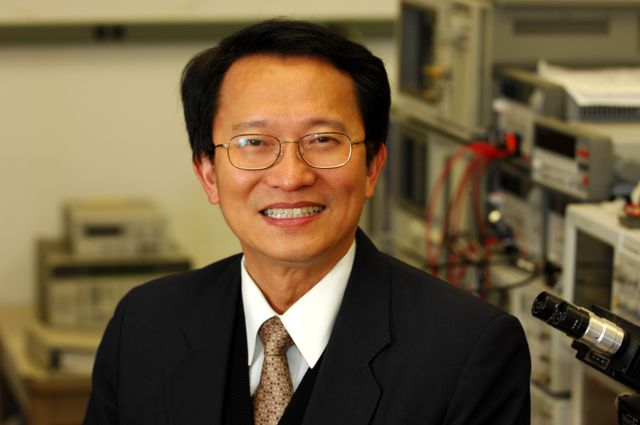
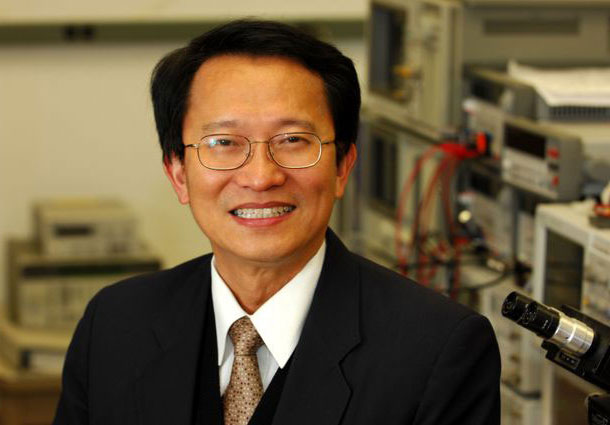
addin students pics for Prof. Chang page

diff --git a/src/assets/articlesHighlights.js b/src/assets/articlesHighlights.js
@@ -226,8 +226,8 @@ export const articlesHighlights = [
     articleCallout2: '',
     articleImage1: '/img/frankchang.jpg',
     articleImage2: '/img/frankchang2.jpg',
-    articleImage3: '',
-    articleImage4: '',
+    articleImage3: '/img/frankchang5.jpg',
+    articleImage4: '/img/frankchang4.jpg',
     articleImage5: '',
     articleImage6: '',
     articleImageAltText1: 'Former Chair of ECE Department',
@@ -242,8 +242,8 @@ export const articlesHighlights = [
     articleImageAltTextProf: 'M-C Frank Chang',
     articleImageCred: 'Photo courtesy of IEEE',
     articleAuthor: '',
-    articleCaption1: 'Witold Kinsner, IEEE Educational Activities Vice President; Mau-Chung Frank Chang; Steve Watkins, 2018 IEEE-Eta Kappa Nu President',
-    articleCaption2: '',
+    articleCaption1: 'Professor Mau-Chung Frank Chang (left); Witold Kinsner, IEEE Educational Activities Vice President, Professor Chang; Steve Watkins, 2018 IEEE-Eta Kappa Nu President (right)',
+    articleCaption2: 'Professor Chang\'s students working on the lab',
     articleCaption3: '',
     textCopy: '<p><b>IEEE-HKN Announces Award for Outstanding Technical Achievement.</b>       Dr. Mau-Chung Frank Chang Recognized for Pioneering Research in High-Speed, High-Frequency Semiconductor Devices, Materials and Integrated Circuits  </p><p>  Mau-Chung Frank Chang, Ph.D., President of National Chiao Tung University in Taiwan, was awarded the <b>IEEE-Eta Kappa Nu (IEEE-HKN) Vladimir Karapetoff Outstanding Technical Achievement Award</b> for his “transformative contributions in undergraduate engineering education and for pioneering research in high-speed, high frequency semiconductor devices, materials, and integrated circuits.”  </p><p> Dr. Chang, also the Wintek Chair in Electrical Engineering and Distinguished Professor at the University of California, Los Angeles, has primarily focused on research and development of high-speed semiconductor devices and integrated circuits for radio frequency and mixed signal, radar and imaging Systems-on-Chip applications, all of which are used in handheld device technology.  Dr. Chang has published more than 450 technical papers and was granted more than 50 US patents. He has graduated more than 45 Ph.D. students and 85 Master’s of Science students at UCLA.  </p><p>IEEE-HKN is a program within IEEE’s Educational Activities unit. IEEE is a not-for-profit organization, which represents more than 426,000 members in 160 countries. The Vladimir Karapetoff Outstanding Technical Achievement Award is given annually to recognize career accomplishments of a practitioner of electrical or computer engineering who has distinguished him or herself through an invention, development, or discovery in the field of electrical or computer technology.  </p><p> IEEE-Eta Kappa Nu is the student Honor Society of IEEE dedicated to encouraging and recognizing excellence in IEEE technical fields of interest. It honors excellence in engineering by recognizing the leaders of today and tomorrow. Members consist of students, alumni, and other professionals who have demonstrated exceptional academic and professional accomplishments.</p>'
   },
